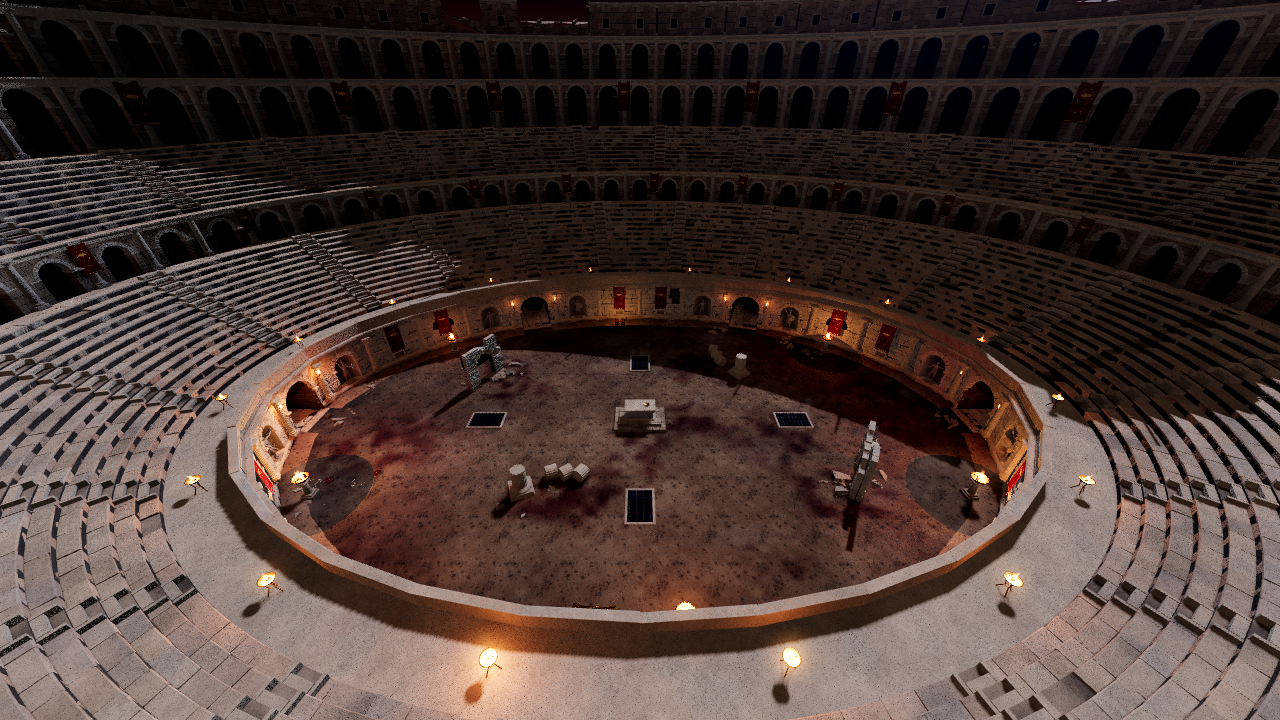
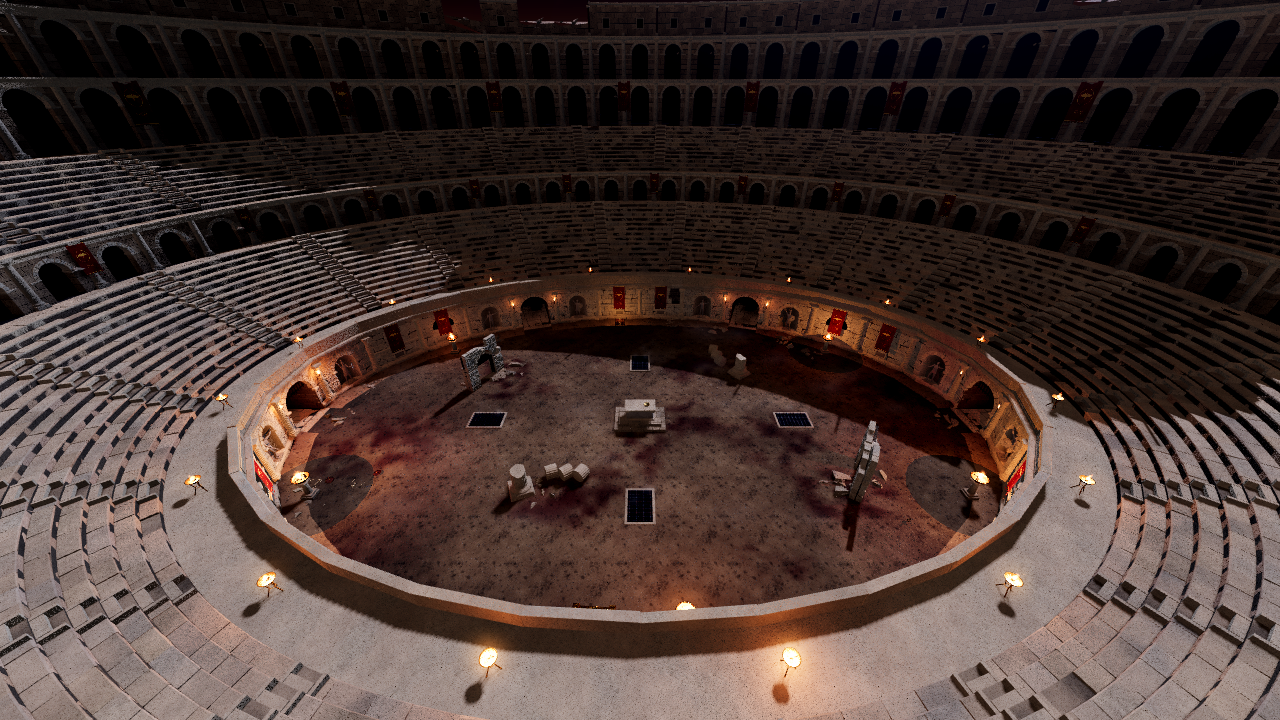
Visual pass: after renders incl. zombie readability shot, draw-count tool, comparison script, report draft
Claude-Session: https://claude.ai/code/session_01RDDky3VF2zBryumANBUgPE

Changed region(s): [[0.3125, 0.8556, 0.4688, 1.0], [0.5312, 0.8556, 0.6875, 1.0], [0.3125, 0.7944, 0.3438, 0.825]]

diff --git a/docs/VISUAL_PASS_PHASE1.md b/docs/VISUAL_PASS_PHASE1.md
@@ -1,0 +1,127 @@
+# Visual overhaul, phase 1: report
+
+Branch `visual-overhaul-phase1`; safety tag `pre-visual-overhaul-phase1`
+(Gemini's SSAO/lighting fix, commit 2760f1e) marks the starting point.
+
+## 1. Tool verification
+
+| Tool | Result |
+|---|---|
+| Blender | **Not available, not used.** No `blender` binary; `bpy` has no installable distribution here; download.blender.org returns HTTP 403 through the sandbox proxy. Re-checked at the start and end of this pass. |
+| Python generation | Yes. numpy modelling kit in `tools/asset_gen/` (`meshkit.py`, new `arch_kit.py`, `build_arena_v2.py`). |
+| GLB export | Yes. Hand-written glTF 2.0 binary writer (`meshkit.write_glb`). |
+| Godot 4.7.2 import | Yes. `godot --headless --import` imports every regenerated GLB with no errors (a clean checkout needs two import passes; see README). |
+| Runtime | Yes. In-game renders from the real `game.tscn`, the automated suite and the smoke run all load the new assets. |
+
+## 2. What changed visually
+
+**Stage A (north span, bays 20–25)** was built first, compared with matching
+before shots (`docs/visual_pass/stageA_before_after.png`), then extended in
+**Stage B** to the whole arena.
+
+* **Podium wall.** Rebuilt from one swept mesh into modular bays made of
+  individual ashlar blocks. The blocks have chamfered, chipped edges, per-block
+  colour variation and recessed mortar joints. There are six module types
+  (three panel variants, statue niche, gate, column) plus mirroring, so
+  neighbouring bays do not repeat.
+* **Arches.** Real voussoir rings with keystones over gates and niches. The
+  masonry is clipped around each arch instead of being a flat cut-out.
+* **Columns and trim.** Fluted engaged columns with moulded bases and
+  capitals; a profiled cornice, parapet and base course.
+* **Gates and tunnels.** Gates now have ashlar side walls, a vaulted
+  voussoir ceiling, flagstone floors, rubble and a portcullis.
+* **Floor-to-wall transition.** Sand drifts and scattered rubble along the
+  wall foot, plus shader grime that fades with height.
+* **Seating.** Individual seat slabs with slight settling and tilt and a few
+  missing stones, trimmed cleanly at the stair aisles.
+* **Upper tiers.** Arcade bays with real arches and columns, including damaged
+  variants. The attic has windows, mast sockets and broken sections.
+* **Arena ruins.** Fluted fallen and broken columns, ashlar ruin walls with a
+  rubble core and a half-collapsed arch, and a flagstone altar.
+* **Materials.** New procedural limestone, warm sandstone, marble, mortar and
+  sand textures (albedo, normal, roughness). They use a world-triplanar
+  weathering shader with two-scale macro variation (no visible tiling), ground
+  grime, rain streaks and sand dust on ledges. Legacy material names were
+  moved onto the same shader so props and statues match.
+* **Lighting.** The moon was lowered from 1.45 to 0.95 energy and made cooler.
+  The warm fill went from 0.45 to 0.16. Ambient, fog and sky were retuned
+  toward a blue night with warm torch pools; contrast was raised slightly and
+  saturation lowered. **SSAO stays disabled**, so Gemini's fix for the black
+  corruption is intact.
+* **Zombies and weapons.** Inspected only; no changes were needed. In the
+  combat readability shot (`after_Z1_zombies_combat.png`) both stay clear
+  against the floor and walls.
+
+## 3. What did not change
+
+Gameplay code, weapon and zombie data, the round system, the Mystery Box,
+Pack-a-Punch, the economy, player movement and the Three.js repository were
+not touched.
+
+The arena layout is the same: the comparison of `colosseum_layout.json`
+against the tag is identical for gates, panels, obstacles, torches, banners,
+tiers and grates. Only statue heights in the niches changed, plus new keys
+for the modules.
+
+Collision meshes and the navigation source are unchanged, and the navmesh
+still bakes to 185 polygons. Zombies spawn and path normally in the smoke run.
+
+## 4. Verification
+
+* `tests/run_tests.tscn`: **223 checks passed, 0 failed.**
+* `tests/smoke_run.tscn`: round 1 spawns and runs normally; nav polygons 185.
+* `tests/beauty_shots.tscn`: ten fixed cameras rendered through the real game
+  scene, before and after. Images are in `docs/visual_pass/before|after/`, and
+  side-by-side sheets are `docs/visual_pass/compare_*.png` and
+  `stageB_before_after.png`.
+* The renders were inspected by eye, not just generated. Passing tests are
+  **not** treated as proof that the graphics look good.
+
+## 5. Performance
+
+PERF_TABLE
+
+* Unique geometry in the scene is PERF_SURFACES. The podium uses 30 bay
+  instances that share 6 meshes. Upper tiers are 10 MultiMeshes, one per
+  module (about 280 instances).
+* Triangle budgets per module:
+
+  | Module | Triangles |
+  |---|---|
+  | Panel A | 3.3 k |
+  | Panel B | 6.4 k |
+  | Panel C | 4.4 k |
+  | Niche | 5.7 k |
+  | Gate | 18.2 k |
+  | Column | 1.4 k |
+  | Arcade bay | 0.56–0.62 k |
+  | Attic bay | 0.06–0.24 k |
+
+  Seating is 121 k triangles in 24 culled sectors.
+* **Auto-LOD.** Disabled for block-built meshes, because Godot's simplifier
+  collapses separate blocks into slivers. Distant tiers use purpose-built
+  low-poly modules instead. The floor keeps auto-LOD.
+* **Draw calls.** The draw-call numbers come from the Compatibility (OpenGL)
+  renderer, which draws an object once more for every extra light that
+  touches it. Forward+ uses clustered lighting and should come in lower, but
+  that was not measured here. The renders used software GL, so frame times
+  say nothing about a real GPU.
+
+## 6. Unresolved issues
+
+* **Forward+ never seen.** All screenshots use the Compatibility renderer
+  (llvmpipe, no GPU here). Fog, glow and shadow softness may need retuning
+  on a real GPU.
+* **Draw calls.** Visible draw calls are higher than before in wide views
+  (see table). If it matters on target hardware, the next step is to merge
+  podium bays per quadrant into MultiMeshes and drop a material surface (sand
+  drifts) into a shared mesh.
+* **Panel C damage patch.** The damaged panel's exposed rubble core reads as a
+  dark rectangle from some angles (left of the banner in A3, behind
+  Pack-a-Punch in G4). It needs a rougher outline and lighter core.
+* **Ruin walls.** The free-standing ruin walls read greyer and noisier than
+  the podium. The legacy `stone_blocks` texture is still on their faces.
+* **Mystery Box corner.** It remains on the dark side; a small warm fill
+  light near it would help readability.
+* **Windows build.** Exported but not launched; this environment cannot run
+  Windows binaries.
